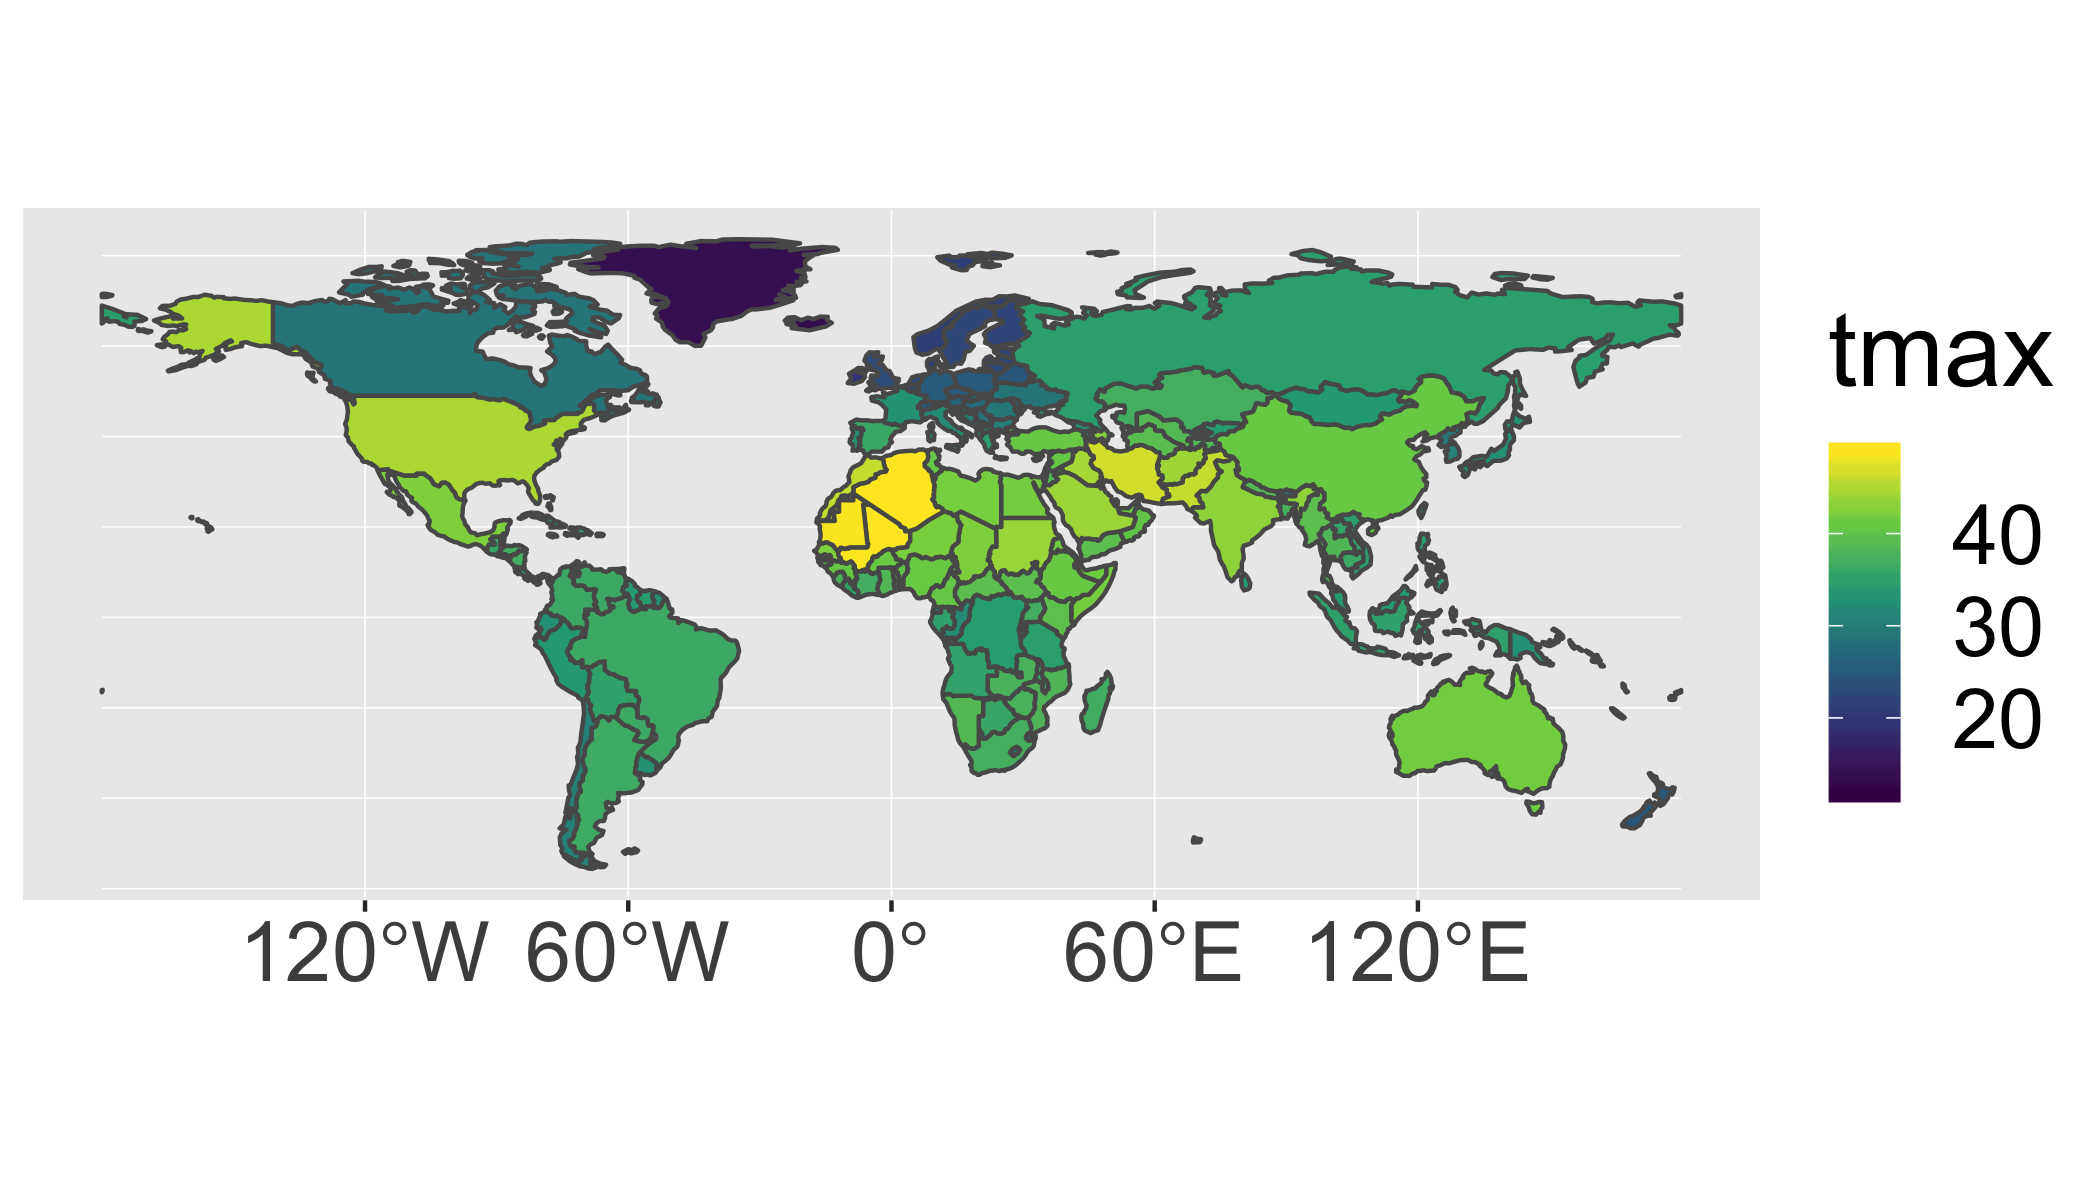
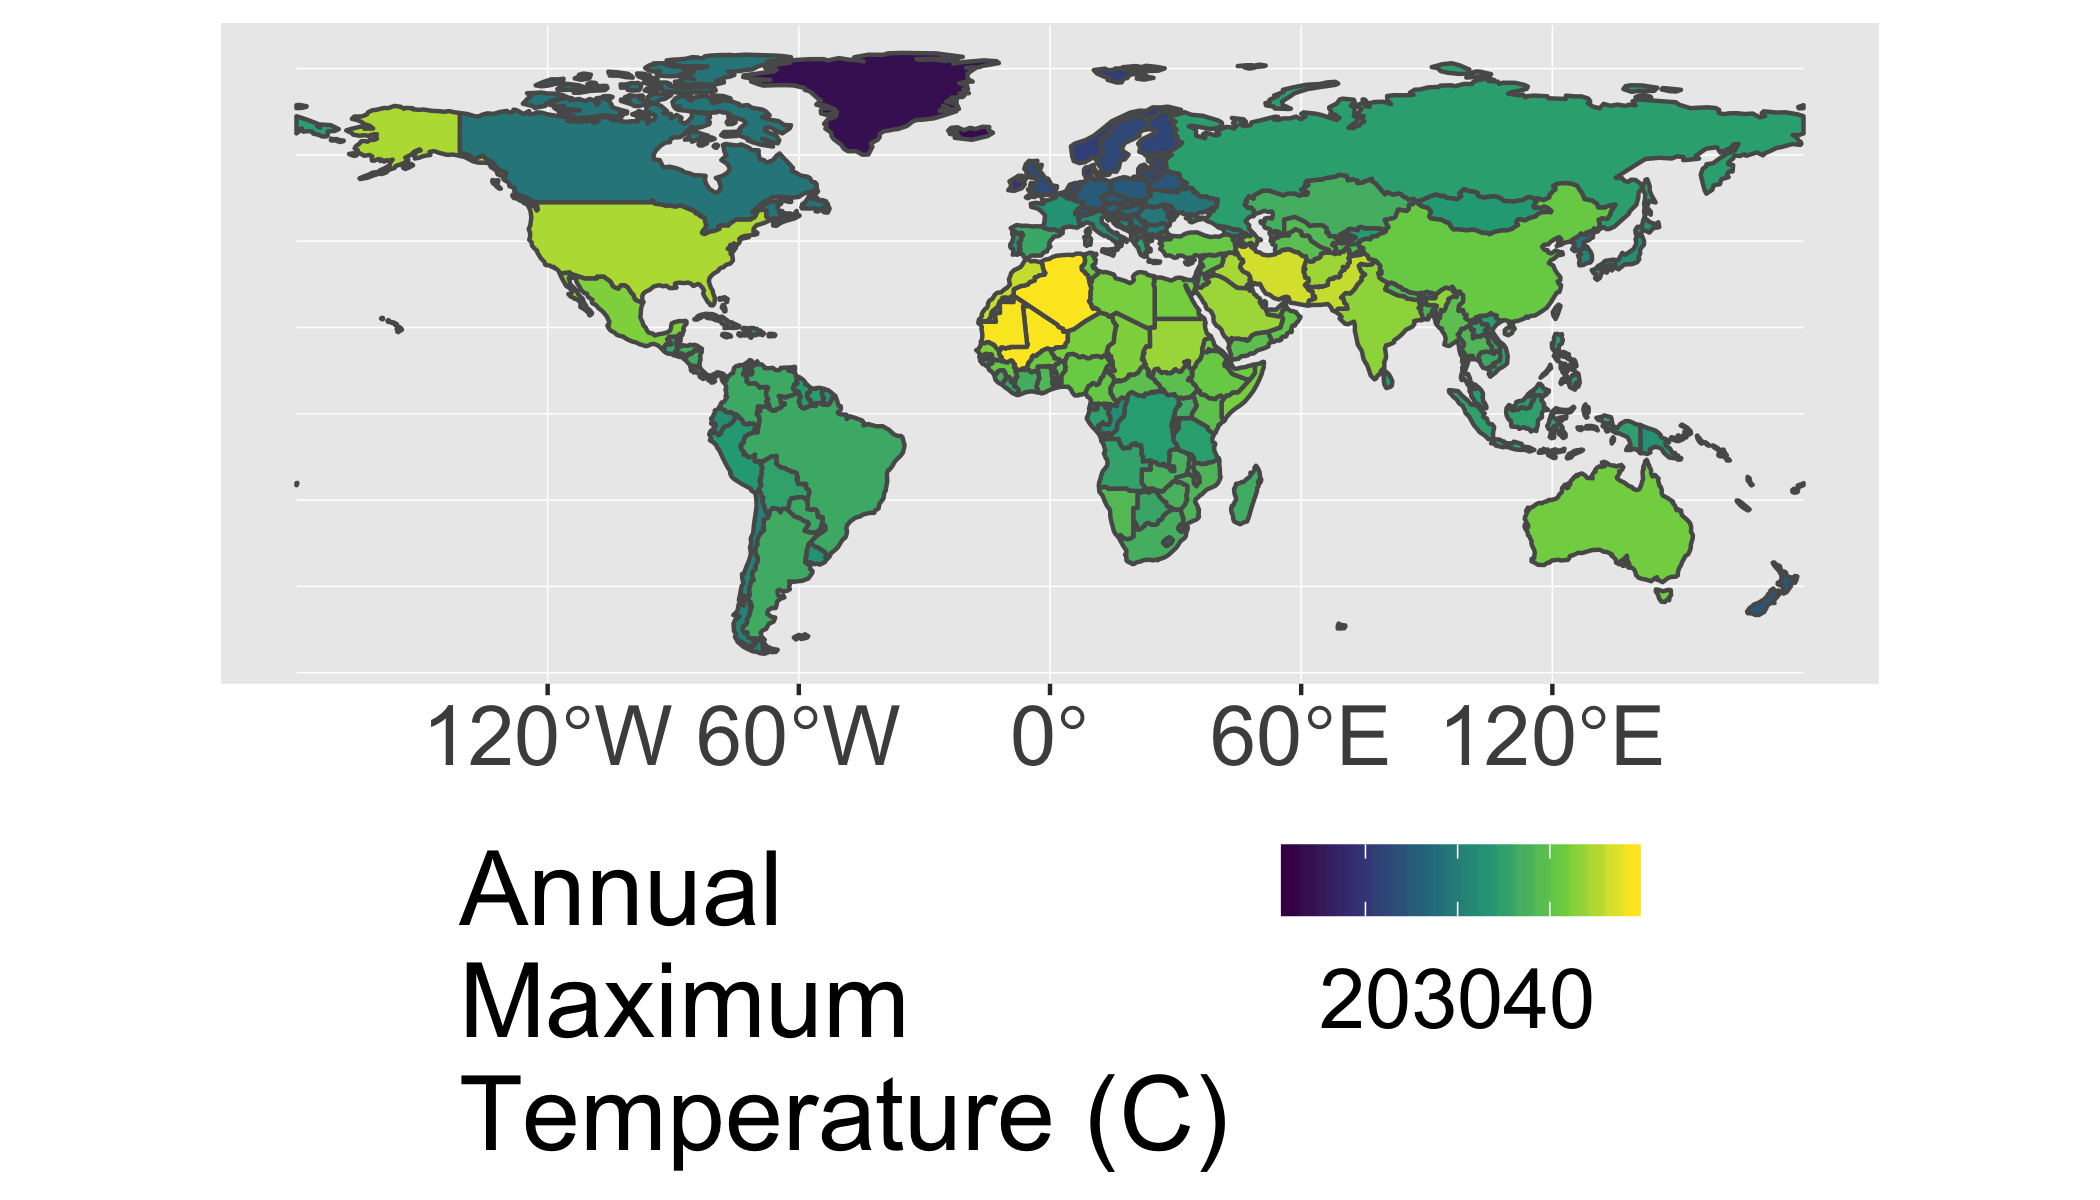
update CS06

diff --git a/docs/CS_06.html b/docs/CS_06.html
@@ -446,7 +446,7 @@ div.tocify {
 <li>Generate a summary figure and table.</li>
 <li>Save your script as a .R or .Rmd in your course repository</li>
 </ul>
-<p><a href="scripts/CS_06_nocomments.R" target="_blank"><i class="fa fa-file-code-o fa-1x" aria-hidden="true"></i> Download starter R script (if desired)</a></p>
+<p><a href="scripts/CS_06_nocomments.R" target="_blank"><i class="fa fa-file-code-o fa-1x" aria-hidden="true"></i> Download starter R script (if desired)</a>. Save this directly to your course folder (repository) so you don’t lose track of it!</p>
 <div class="well">
 <button data-toggle="collapse" class="btn btn-primary btn-sm round" data-target="#demo1">
 Show Hints
@@ -486,7 +486,7 @@ tmax_monthly &lt;- getData(name = &quot;worldclim&quot;, var=&quot;tmax&quot;, r
 </ol></li>
 <li>Communicate your results
 <ol style="list-style-type: decimal">
-<li>use <code>ggplot()</code> and <code>geom_sf()</code> to plot the maximum temperature in each country polygon (not the original raster layer)</li>
+<li>use <code>ggplot()</code> and <code>geom_sf()</code> to plot the maximum temperature in each country polygon (not the original raster layer). To recreate the image below, you will also need <code>scale_fill_viridis_c(name=&quot;Annual\nMaximum\nTemperature (C)&quot;)</code>. Note the use of <code>\n</code> to insert a line break in the text string. You can move the legend around with <code>+theme(legend.position = 'bottom')</code>.</li>
 <li>use <code>dplyr</code> tools to find the hottest country in each continent. You may need <code>group_by()</code> and <code>top_n</code>. To create a nice looking table, you may also want to use <code>select()</code> to keep only the desired columns, <code>arrange()</code> to sort them, <code>st_set_geometry(NULL)</code> to drop the geometry column (if desired).</li>
 </ol></li>
 </ol>

diff --git a/CS_06.md b/CS_06.md
@@ -39,7 +39,7 @@ In this case study we'll work with a timeseries of temperature data from [WorldC
 - Generate a summary figure and table.
 - Save your script as a .R or .Rmd in your course repository
 
-[<i class="fa fa-file-code-o fa-1x" aria-hidden="true"></i> Download starter R script (if desired)](scripts/CS_06_nocomments.R){target="_blank"}
+[<i class="fa fa-file-code-o fa-1x" aria-hidden="true"></i> Download starter R script (if desired)](scripts/CS_06_nocomments.R){target="_blank"}.  Save this directly to your course folder (repository) so you don't lose track of it!
 
 <div class="well">
 <button data-toggle="collapse" class="btn btn-primary btn-sm round" data-target="#demo1">Show Hints</button>
@@ -80,7 +80,7 @@ tmax_monthly <- getData(name = "worldclim", var="tmax", res=10)
     1. use `raster::extract()` to identify the maximum temperature observed in each country (`fun=max`). Also set `na.rm=T, small=T, sp=T` to 1) handle missing data along coastlines, 2) account for small countries that may not have a full 0.5 degree pixel in them, and 3) return a spatial polygon object instead of just a vector of values.
     2. convert the results of the previous step to `sf` format with `st_as_sf()`.  Now you have an updated polygon object with a new column of maximium temperature.  Cool!
 3. Communicate your results
-    1. use `ggplot()` and `geom_sf()` to plot the maximum temperature in each country polygon (not the original raster layer)
+    1. use `ggplot()` and `geom_sf()` to plot the maximum temperature in each country polygon (not the original raster layer).  To recreate the image below, you will also need `scale_fill_viridis_c(name="Annual\nMaximum\nTemperature (C)")`.  Note the use of `\n` to insert a line break in the text string. You can move the legend around with `+theme(legend.position = 'bottom')`.
     2. use `dplyr` tools to find the hottest country in each continent. You may need `group_by()` and `top_n`.  To create a nice looking table, you may also want to use `select()` to keep only the desired columns, `arrange()` to sort them, `st_set_geometry(NULL)` to drop the geometry column (if desired).
 </div>
 </div>
